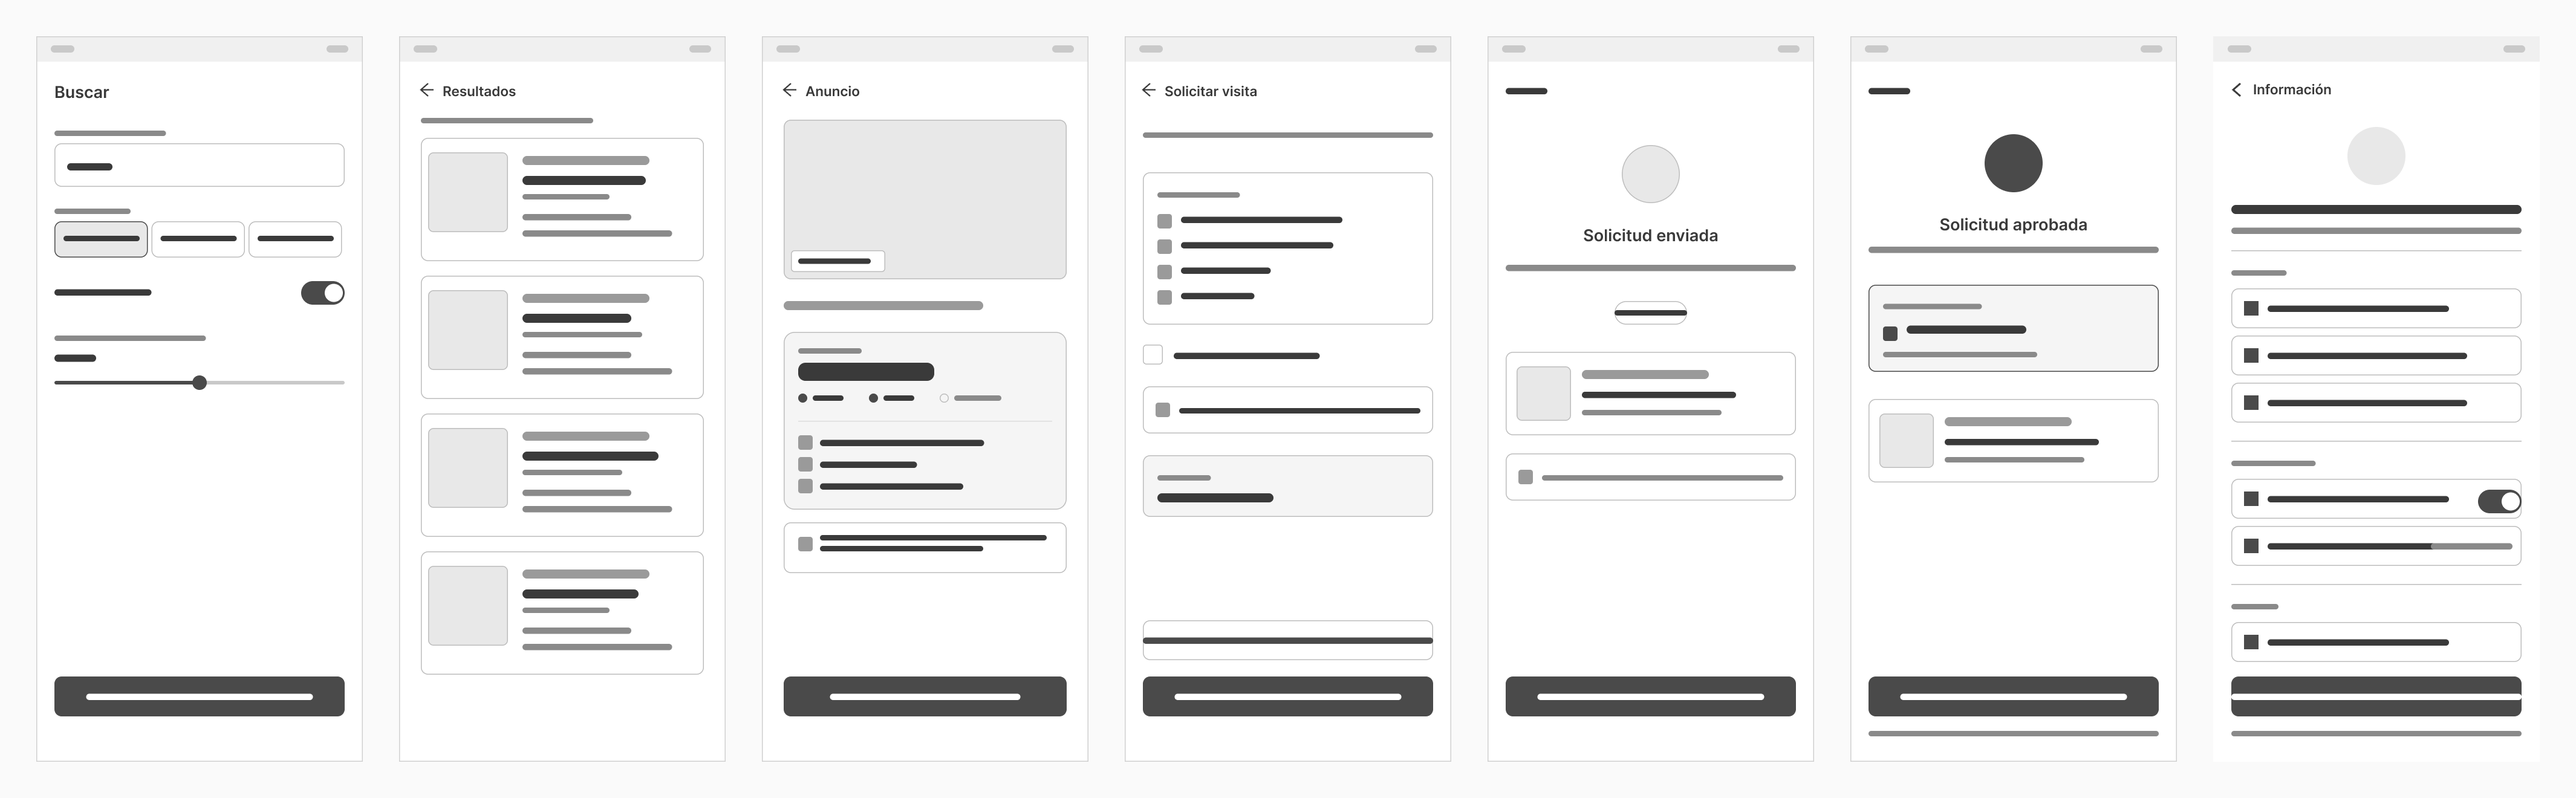
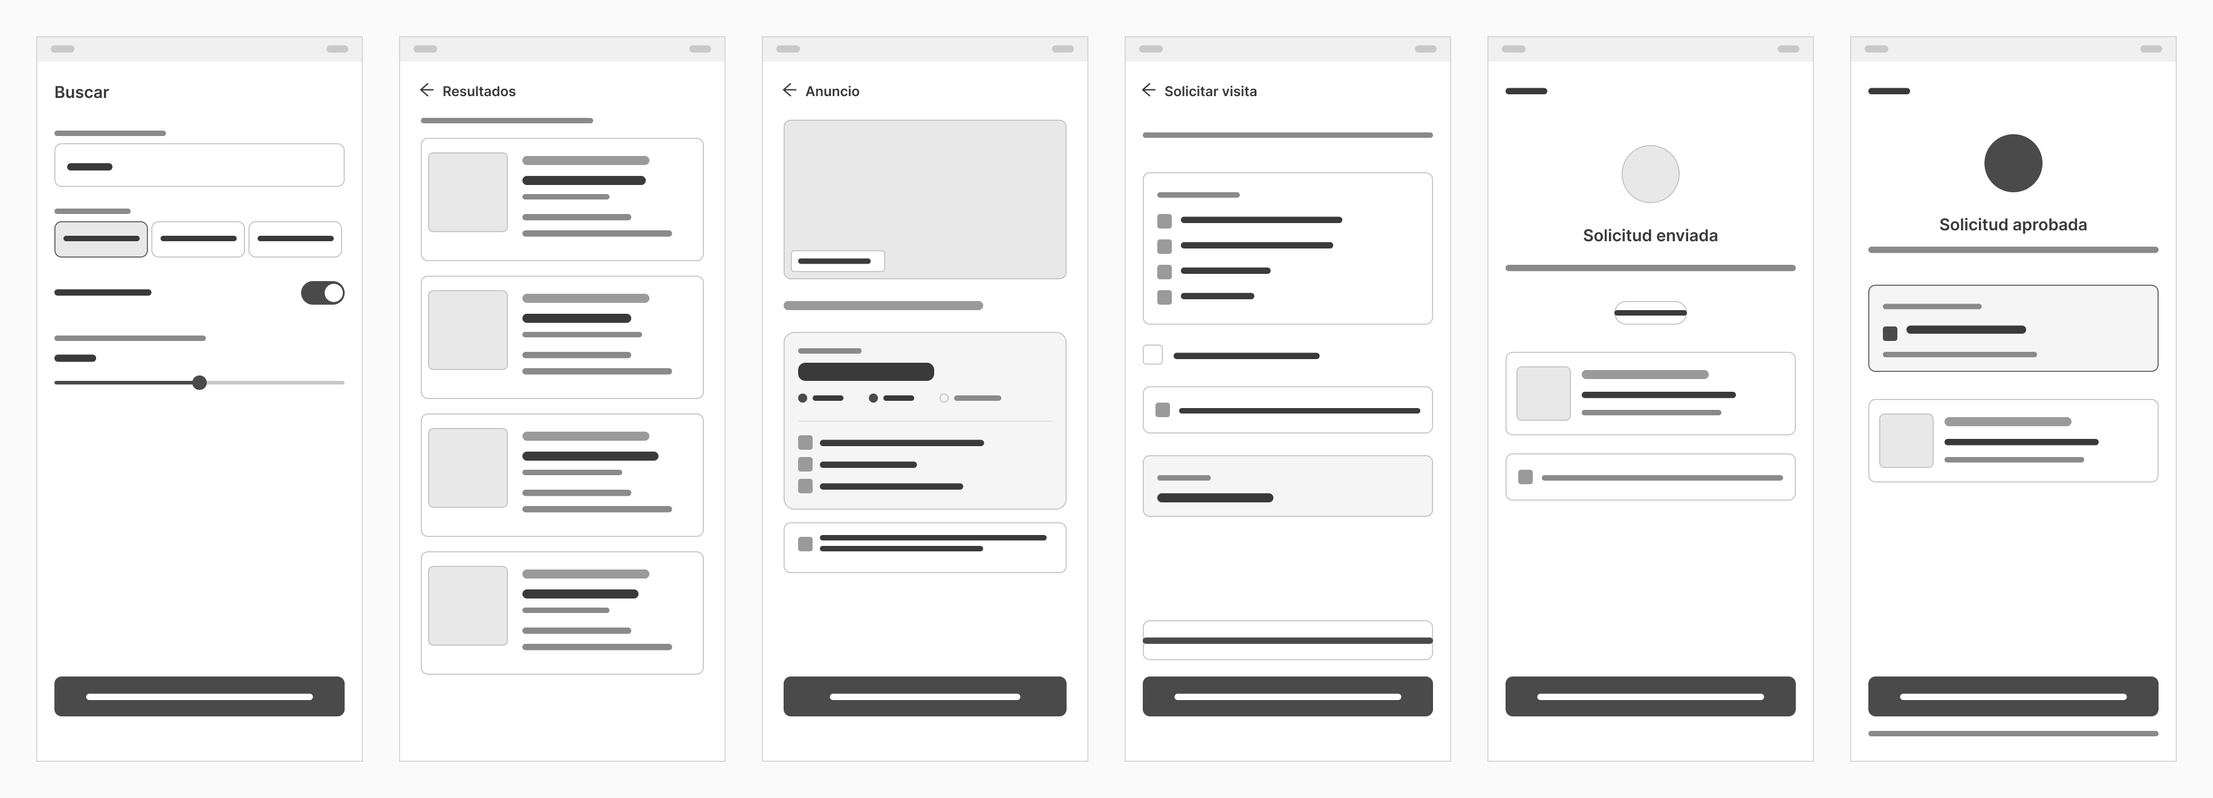
docs(wireframes): quitar la vista 07 Informacion del flujo v0.2
No forma parte del recorrido documentado en flujo/flujo-v0.2.md: era una
pantalla de practica que quedo suelta en la pagina de Figma. Al exportar
los frames tome todos los que habia sin verificar cuales pertenecian al
flujo, y por eso se publico.

Se elimina el SVG, se quita el frame de Figma y se regenera la lamina con
las seis pantallas reales. READMEs actualizados.

diff --git a/README.md b/README.md
@@ -42,7 +42,7 @@ El proceso de búsqueda y oferta de alquileres genera una enorme pérdida de tie
 | [Persona — Andrea](persona/persona-v0.2.md) | Estudiante de provincia, con un gato |
 | [App map](appmap/appmap-v0.2.md) | Mapa completo: los dos lados y dónde se enganchan |
 | [Flujo](flujo/flujo-v0.2.md) | Buscar, ver anuncio y solicitar visita |
-| [**Wireframes**](wireframes/flujo-v0.2-inquilina/flujo-completo.png) | Las 7 pantallas en una lámina — se ven sin abrir Figma |
+| [**Wireframes**](wireframes/flujo-v0.2-inquilina/flujo-completo.png) | Las 6 pantallas en una lámina — se ven sin abrir Figma |
 
 ### Diseño
 
@@ -50,7 +50,7 @@ El proceso de búsqueda y oferta de alquileres genera una enorme pérdida de tie
 |---|---|
 | [Lenguaje visual](wireframes/_lenguaje-visual.md) | Reglas que siguen todos los wireframes |
 | [Wireframes del flujo v0.1](wireframes/flujo-v0.1-propietario/README.md) | Los 5 SVG del propietario |
-| [Wireframes del flujo v0.2](wireframes/flujo-v0.2-inquilina/README.md) | Los 7 SVG de la inquilina |
+| [Wireframes del flujo v0.2](wireframes/flujo-v0.2-inquilina/README.md) | Los 6 SVG de la inquilina |
 | [**Decisión de diseño**](docs/decision-clase-05.md) | Jerarquía, layout y espaciado: antes, cambio, prueba con usuaria y siguiente paso |
 
 ### Implementación
